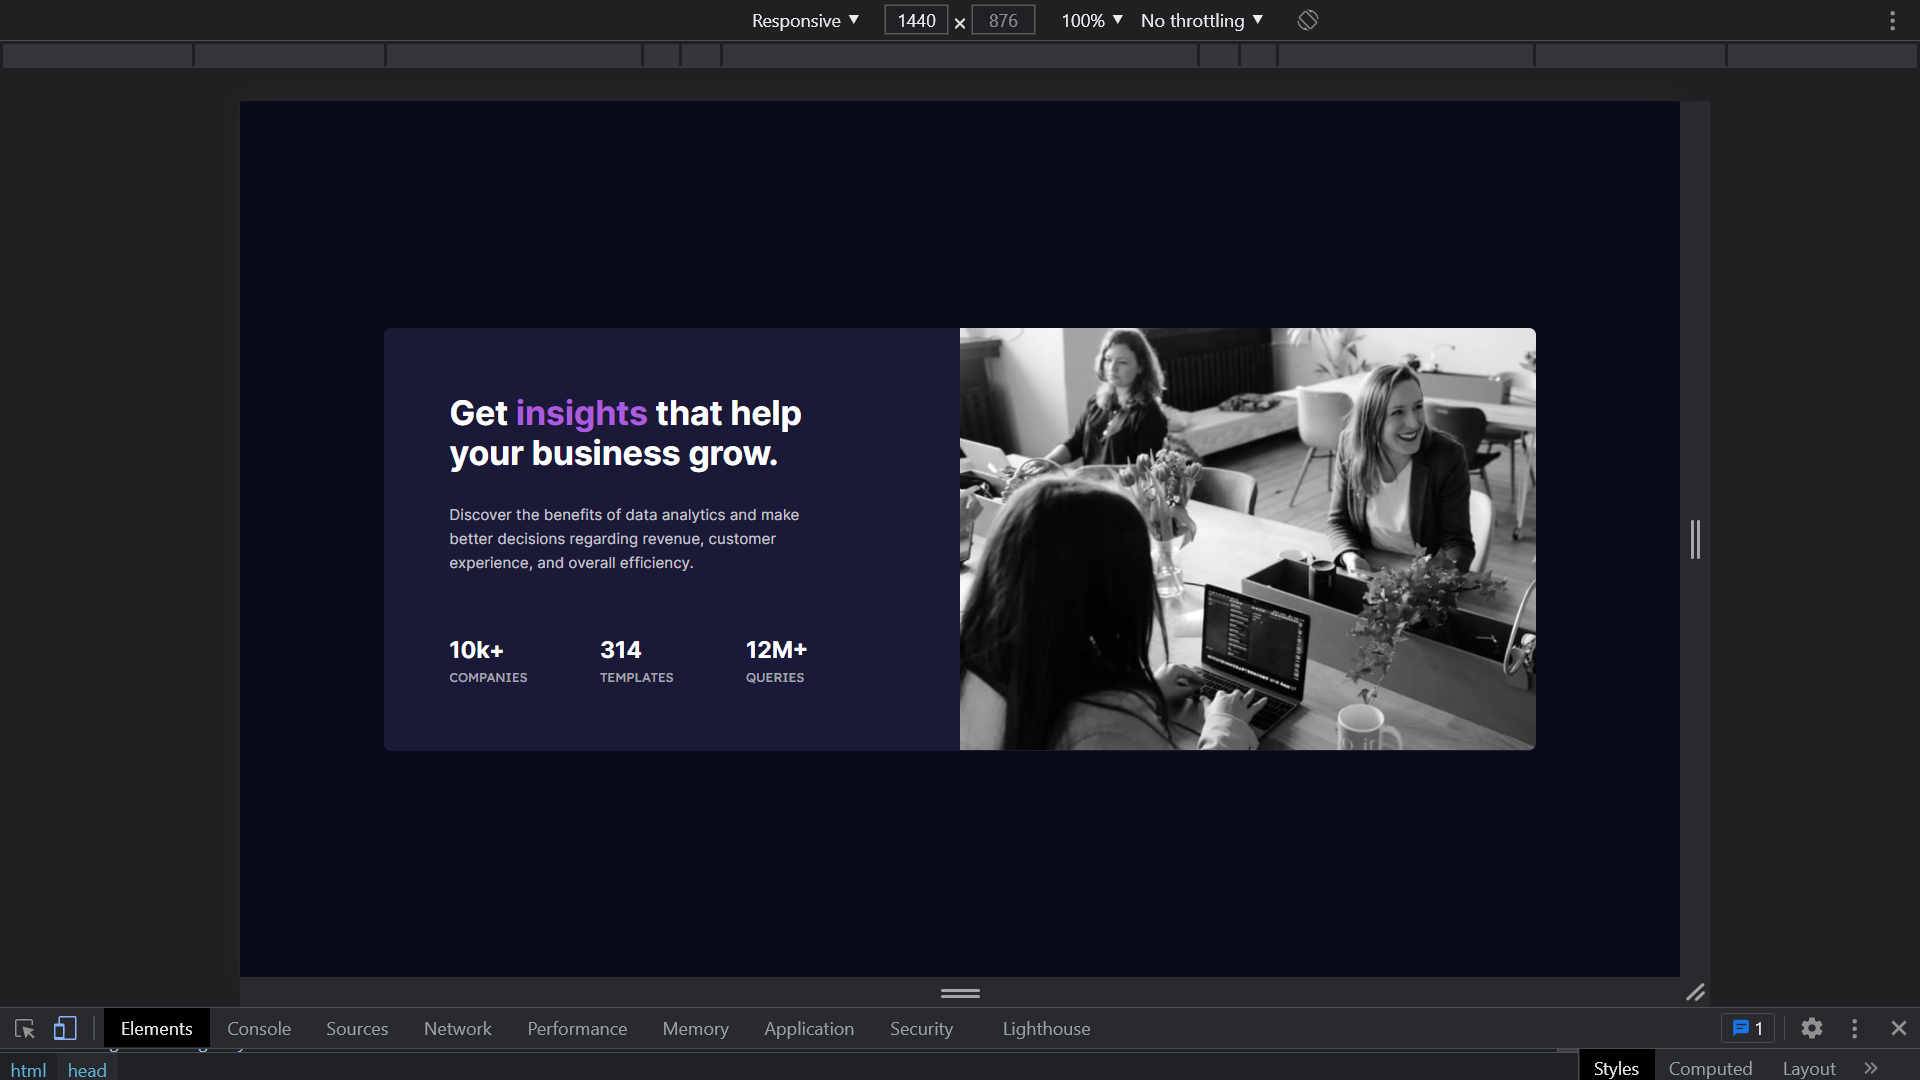
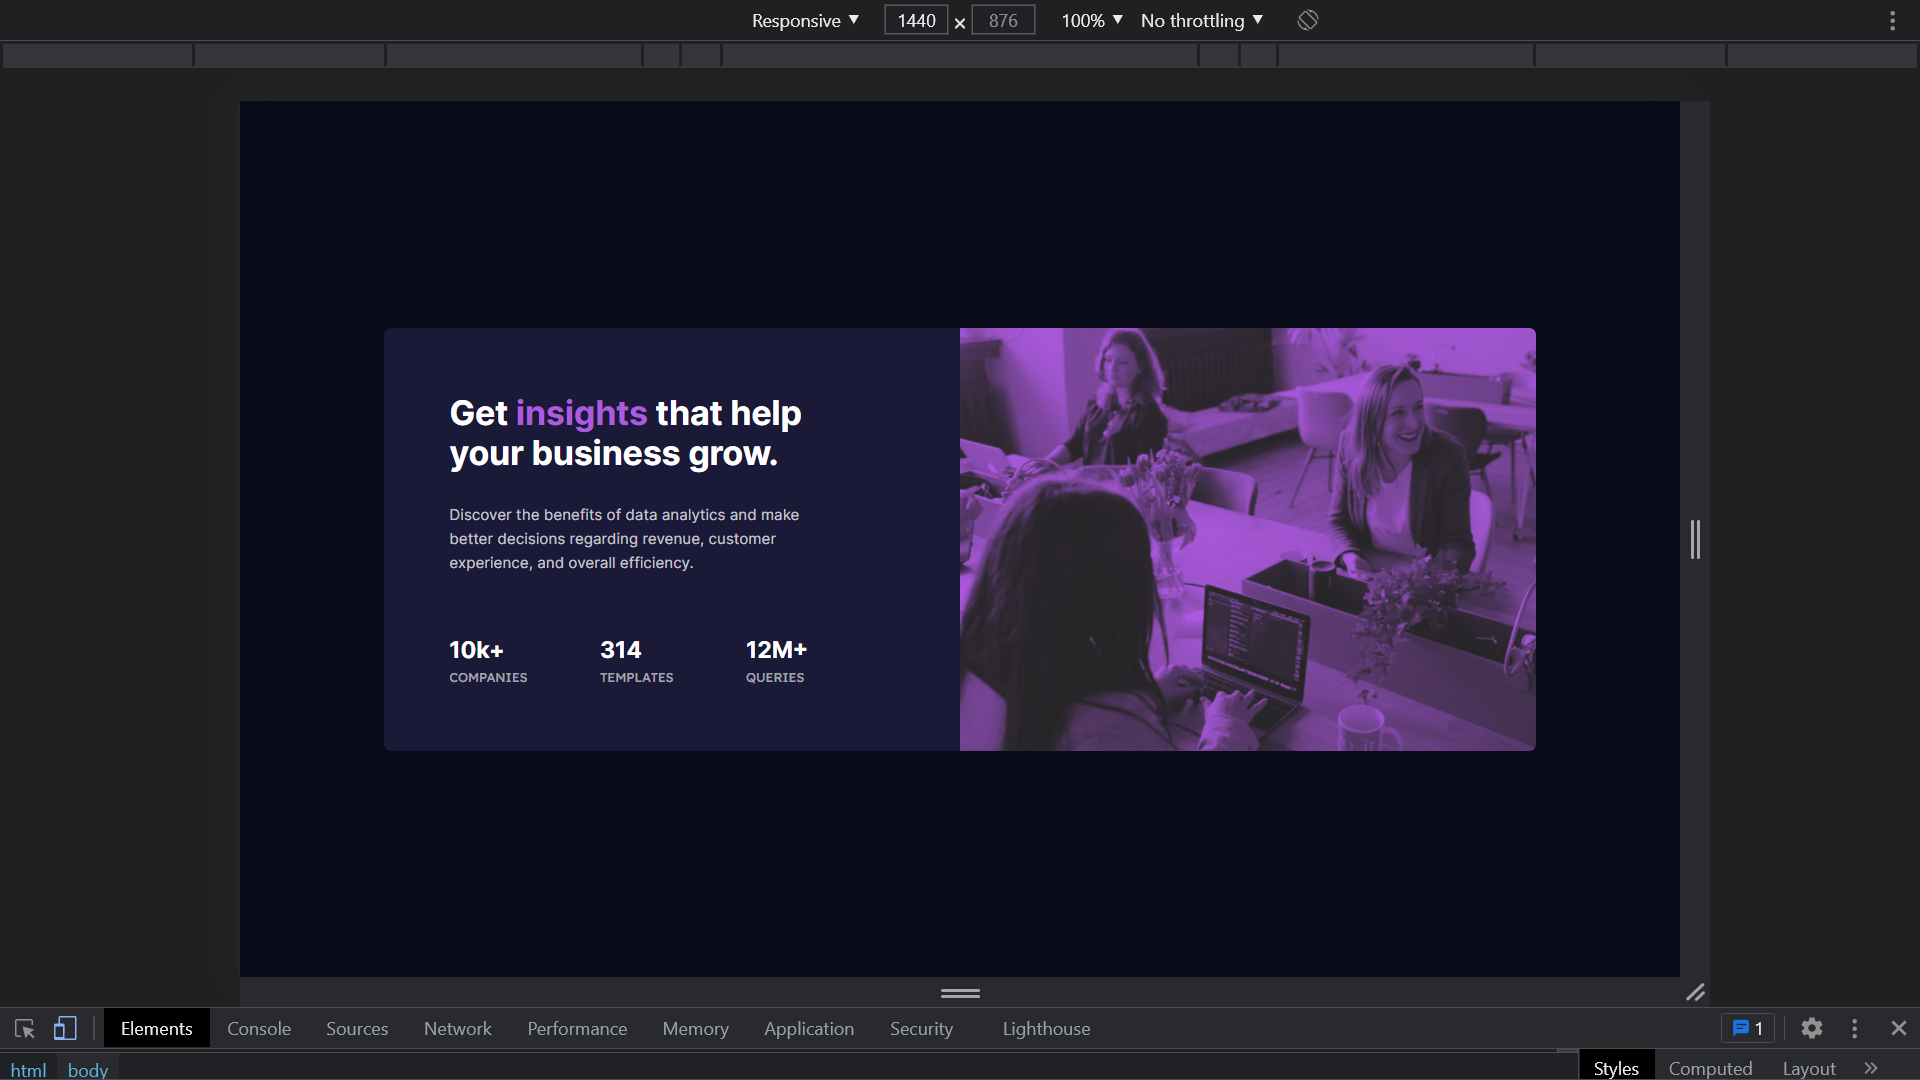
Add purple filter to image and update screenshots folder
A big thank you to the people who commented on my original solution on frontendmentor. Their feedback helped me a lot. I'll include it in the 'What I learned' section of the README in the next commit

Changed region(s): [[0.5, 0.3056, 0.8125, 0.7028], [0.0312, 0.9778, 0.0625, 1.0]]

diff --git a/styles.css b/styles.css
@@ -70,6 +70,20 @@ h2 {
     margin: 5em auto;
 }
 
+.hero__image-container {
+    background-image: url("./images/image-header-mobile.jpg");
+    background-color: hsl(277, 67%, 54.5%);
+    background-size: cover;
+    background-repeat: no-repeat;
+    background-blend-mode: multiply;
+    filter: contrast(75%) brightness(115%);
+    border-radius: 7px 7px 0 0;
+}
+
+.hero__image {
+    visibility: hidden;
+}
+
 .hero__title,
 .social-proof__title {
     color: var(--white);
@@ -125,6 +139,10 @@ h2 {
         border-radius: 0 7px 7px 0;
     }
 
+    .hero__image-container {
+        border-radius: 0 7px 7px 0;
+    }
+
     .container {
         width: 80%;
         max-width: 1300px;
@@ -165,7 +183,7 @@ h2 {
     }
 }
 
-@media (min-width: 1335px) {
+@media (min-width: 1355px) {
     .hero__title {
         font-size: 2.1rem;
     }
